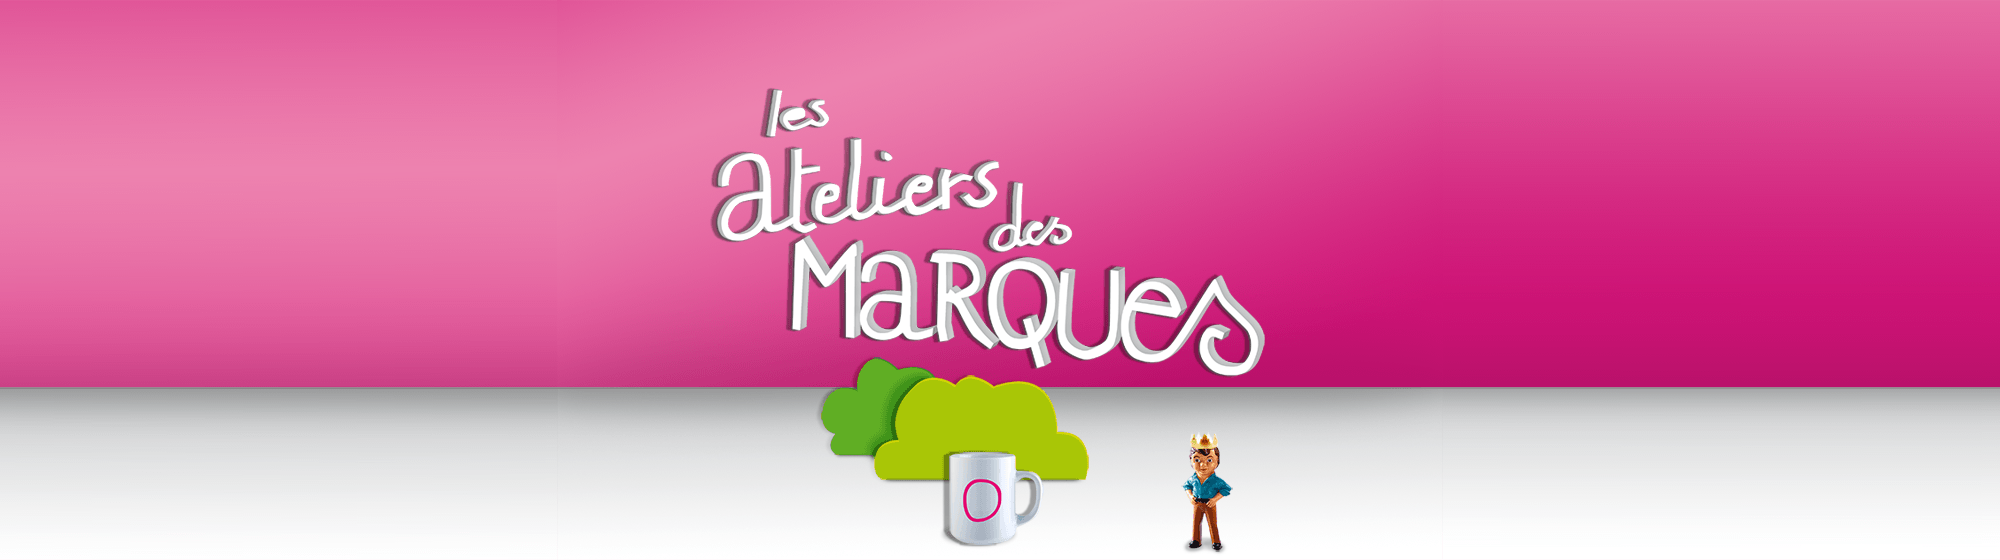
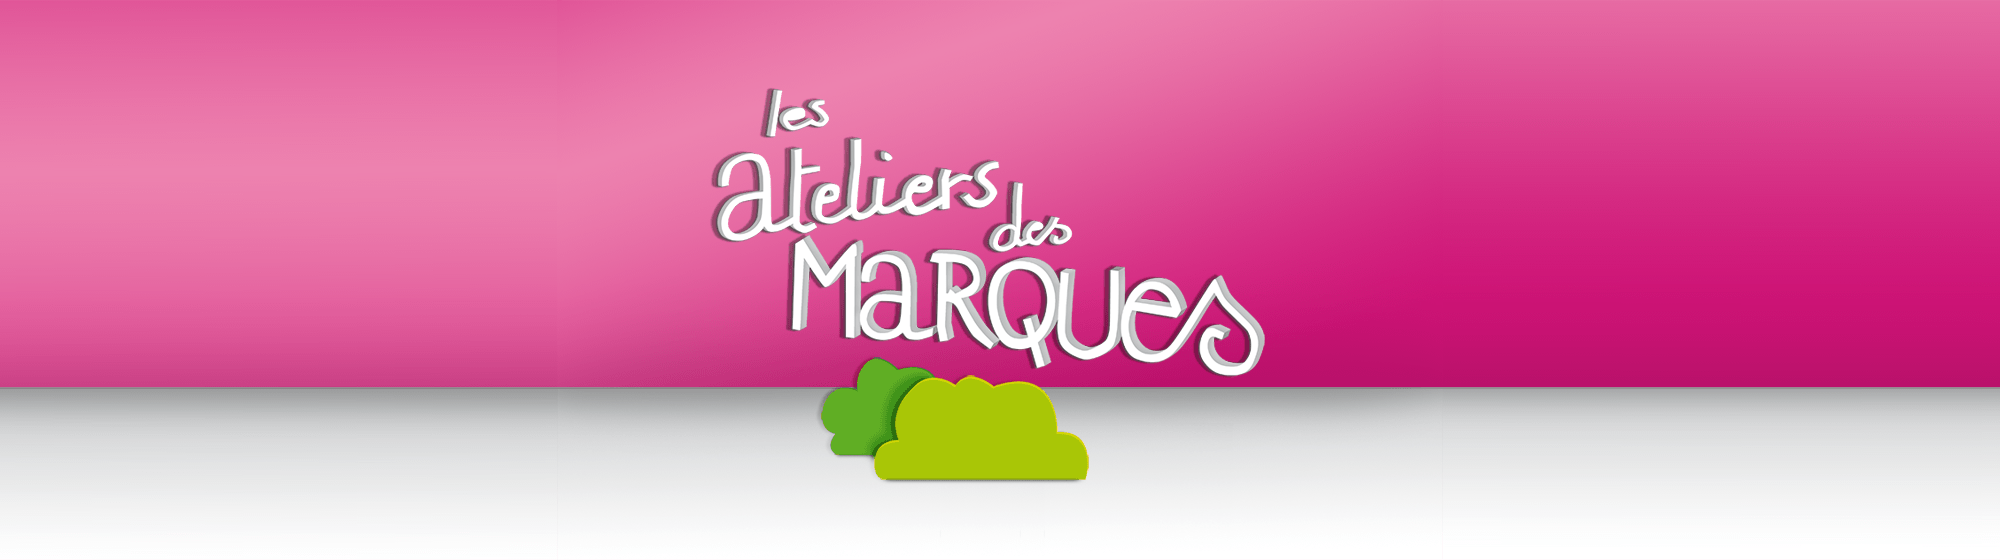
fixes, à voir

Changed region(s): [[0.465, 0.7893, 0.527, 0.9714], [0.589, 0.7589, 0.62, 1.0]]

diff --git a/adm/static/css/index.css b/adm/static/css/index.css
@@ -115,6 +115,7 @@
 }
 
 #client {
+    background: url('../img/sprites.index.png') -2354px 0 no-repeat;
     position: absolute;
     left: 622px;
     top: 430px;
@@ -145,7 +146,7 @@
     top: 0;
     height: 560px;
     min-height: 560px;
-    overflow-x: hidden;
+    min-width: 1100px;
     text-align: center;
     position: relative;
 }
@@ -310,19 +311,20 @@
 
 /********** CopyCup ********/
 #mug {
+    background: url('../img/sprites.index.png') -2249px 0 no-repeat;
     position: absolute;
     top: 453px;
-    left: 387px;
-    width: 90px;
-    height: 94px;
+    left: 370px;
+    width: 105px;
+    height: 98px;
 }
 
 #cupcopy {
     width: 21px;
     height: 23px;
     position: absolute;
-    top: 35px;
-    left: 25px;
+    top: 37px;
+    left: 32px;
 
     background: url('../img/sprites.index.png') transparent no-repeat -453px -78px;
 

diff --git a/adm/static/css/base.css b/adm/static/css/base.css
@@ -37,6 +37,7 @@ a:hover
 #bodyContainer
 {
     background: url('../img/0.bg.png') no-repeat top;
+    height: auto;
 }
 
 /** Rounded div popups **/
@@ -394,7 +395,7 @@ footer
 
 footer > p
 {
-    position:absolute;
+    position:relative;
     height: 2em;
 }
 
@@ -402,6 +403,7 @@ footer > div
 {
     top: 10px;
     position: relative;
+    margin-left: 50px;
 }
 
 footer.index > div
@@ -411,9 +413,10 @@ footer.index > div
 
 footer > img
 {
-    position: absolute;
+    position: relative;
     height: 70px;
-    right: 10%;
+    right: 50px;
+    float: right;
 }
 /* HEADFOOT */
 
